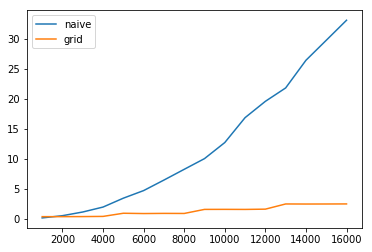
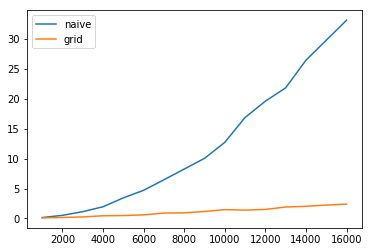
Fixed problem in padding

diff --git a/test/test_time.cpp b/test/test_time.cpp
@@ -22,7 +22,6 @@ void test(int number_agents, int steps, float padding)
 	parser.addOption("rc", 90);
 	parser.addOption("ra", 90);
 	parser.addOption("rs", 25);
-	parser.addOption("padding_grid", padding);
 
 	// Create workspace
 	Workspace workspace(parser);
@@ -43,14 +42,14 @@ int main(){
 		//     printf("Time taken for %i steps: %.5fs\n", (double)(clock() - tStart)/CLOCKS_PER_SEC, steps);
 		// }
 
-		for (int PADDING = 25; PADDING < 800; PADDING+=5){
+		for (int agents = 1000; agents < 30000; agents+=1000){
 				elapsed = 0;
 				clock_gettime(CLOCK_MONOTONIC, &start);
-				test(10000, 20, PADDING);
+				test(agents, 20, 50);
 				clock_gettime(CLOCK_MONOTONIC, &finish);
 
 				elapsed = (finish.tv_sec - start.tv_sec);
 				elapsed += (finish.tv_nsec - start.tv_nsec) / 1000000000.0;
-				printf("Time taken for %i agents: %.5f s\n", elapsed, PADDING);
+				printf("Time taken for %i agents: %.5f s\n", elapsed, agents);
 		}
 }

diff --git a/plot_results.py b/plot_results.py
@@ -24,9 +24,9 @@ with open(filename2) as f:
 variable2[0] = variable2[0][:len(variable[0])]
 variable2[1] = variable2[1][:len(variable[1])]
 
-#plt.plot(variable[0], variable[1], label="naive")
-#plt.plot(variable2[0], variable2[1], label="grid")
+#plt.plot(variable[0], variable[1], label="4 core")
+#plt.plot(variable2[0], variable2[1], label="1 core")
 if len(variable2[0]) == len(variable[0]):
-    plt.plot(variable2[0], [float(i)/j for i, j in zip(variable[1], variable2[1])])
+    plt.plot(variable2[0], [float(j)/i for i, j in zip(variable[1], variable2[1])])
 plt.legend()
 plt.show()
